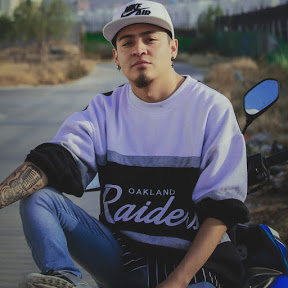
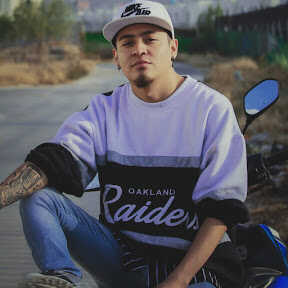
compresion

diff --git a/inicio.html b/inicio.html
@@ -9,19 +9,19 @@
           <div class="container circulo fms"></div>
           <h3><b>Formato FMS</b></h3>
           <p class="tjustify ">Practicá en el formato de la liga mas prestigiosa del mundo. La Freestyle Master Series vino para quedarse, y vos podés llegar a estar ahí. Entrená tus easy mode, hard mode, temáticas y mucho más para convertirte en un gallo profesional.</p>
-          <p><a class="btn fondo-gris rounded-pill py-3 px-3 d-md-none" href="#" role="button">Entrenar &raquo;</a></p>
+          <p><a class="btn fondo-gris rounded-pill py-3 px-3 d-md-none" href="#" role="button">Entrenar</a></p>
         </div>
         <div class="col-md-4 ">
           <div class="container circulo palabras"></div>
           <h3><b>Generador de palabras</b></h3>
           <p class="tjustify">Generá palabras de manera totalmente aleatoria y a la velocidad que vos elijas. Desarrollá tu capacidad de pensar rápido y aplicá distintas técnicas para conectarlas entre sí.</p>
-          <p><a class="btn fondo-gris rounded-pill py-3 px-3 d-md-none" href="#" role="button">Entrenar &raquo;</a></p>
+          <p><a class="btn fondo-gris rounded-pill py-3 px-3 d-md-none" onclick="modoPalabras()" role="button">Entrenar</a></p>
         </div>
         <div class="col-md-4">
           <div class="container circulo imagenes"></div>
           <h3><b>Generador de imagenes</b></h3>
           <p class="tjustify">Entrená tu ingenio usando las distintas imágenes generadas aleatoriamente. Analizá cada detalle y utilizalo para elaborar un punchline perfecto.</p>
-          <p><a class="btn fondo-gris rounded-pill py-3 px-3 d-md-none" href="#" role="button">Entrenar &raquo;</a></p>
+          <p><a class="btn fondo-gris rounded-pill py-3 px-3 d-md-none" href="#" role="button">Entrenar</a></p>
         </div>
       </div>
       <div class="row">
@@ -29,7 +29,7 @@
           <p><a class="btn fondo-gris rounded-pill py-3 px-3" href="#" role="button">Entrenar</a></p>
         </div>
         <div class="col-md-4 d-none d-md-block">
-          <p><a class="btn fondo-gris rounded-pill py-3 px-3" href="#" role="button">Entrenar</a></p>
+          <p><a class="btn fondo-gris rounded-pill py-3 px-3" onclick="modoPalabras()" role="button">Entrenar</a></p>
         </div>
         <div class="col-md-4 d-none d-md-block">
           <p><a class="btn fondo-gris rounded-pill py-3 px-3" href="#" role="button">Entrenar</a></p>

diff --git a/scripts/palabras.js b/scripts/palabras.js
@@ -1,3 +1,22 @@
+$("document").ready(function(){
+  $.ajax({
+    url: "beats.html",
+    success: function(data){
+      $(".elegir-beat").html(data);
+    }
+  });
+});
+
+function irModo() {
+  beat = $(".container").find(".activo").parent().attr("id");
+  $(".elegir-beat").html("");
+  beat = "a" + beat;
+  $("#selector").val(beat).prop('selected', true);
+  beat = document.getElementById(beat);
+  var palabra = arrPalabras[Math.floor(Math.random() * 3395) + 1];
+  console.log(beat, palabra);
+}
+
 var arrPalabras = [
       "abalanzar", "abandonado", "abandonar", "abanico", "abarrotar", "abarrotado", "abdomen", "abdominal", "abdicar", "abducción", "abducir",
       "abedul", "abecedario", "abeja", "aberración", "aberrante", "abeto", "abierto", "abismal", "abismo", "abnegar", "abogado", "abofetear", "abolición",

diff --git a/scripts/principal.js b/scripts/principal.js
@@ -110,6 +110,16 @@ function modoLibre(){
   })
 }
 
+function modoPalabras(){
+  $(".navbar-nav").find(".active").removeClass("active");
+ $.ajax({
+   url: "palabras.html",
+   success: function(data){
+     $("main").html(data);
+   }
+ })
+}
+
 function frenarBeat() {
   var audios = document.getElementsByTagName("audio");
   for(var i = 0; i < audios.length; i++){
@@ -124,3 +134,5 @@ function frenarBeat() {
 }
 
 var intervalo;
+var beat;
+var reproduccion = false;

diff --git a/palabras.html b/palabras.html
@@ -1,0 +1,9 @@
+<!DOCTYPE html>
+<html lang="es-ES">
+ <head>
+ </head>
+ <body>
+    <div class="elegir-beat"></div>
+    <script src="scripts/palabras.js"></script>
+ </body>
+</html>

diff --git a/scripts/libre.js b/scripts/libre.js
@@ -7,9 +7,6 @@ $("document").ready(function(){
   });
 });
 
-var beat;
-var reproduccion = false;
-
 function irModo() {
   $("#selector").hide();
   $(".controladort").hide();
